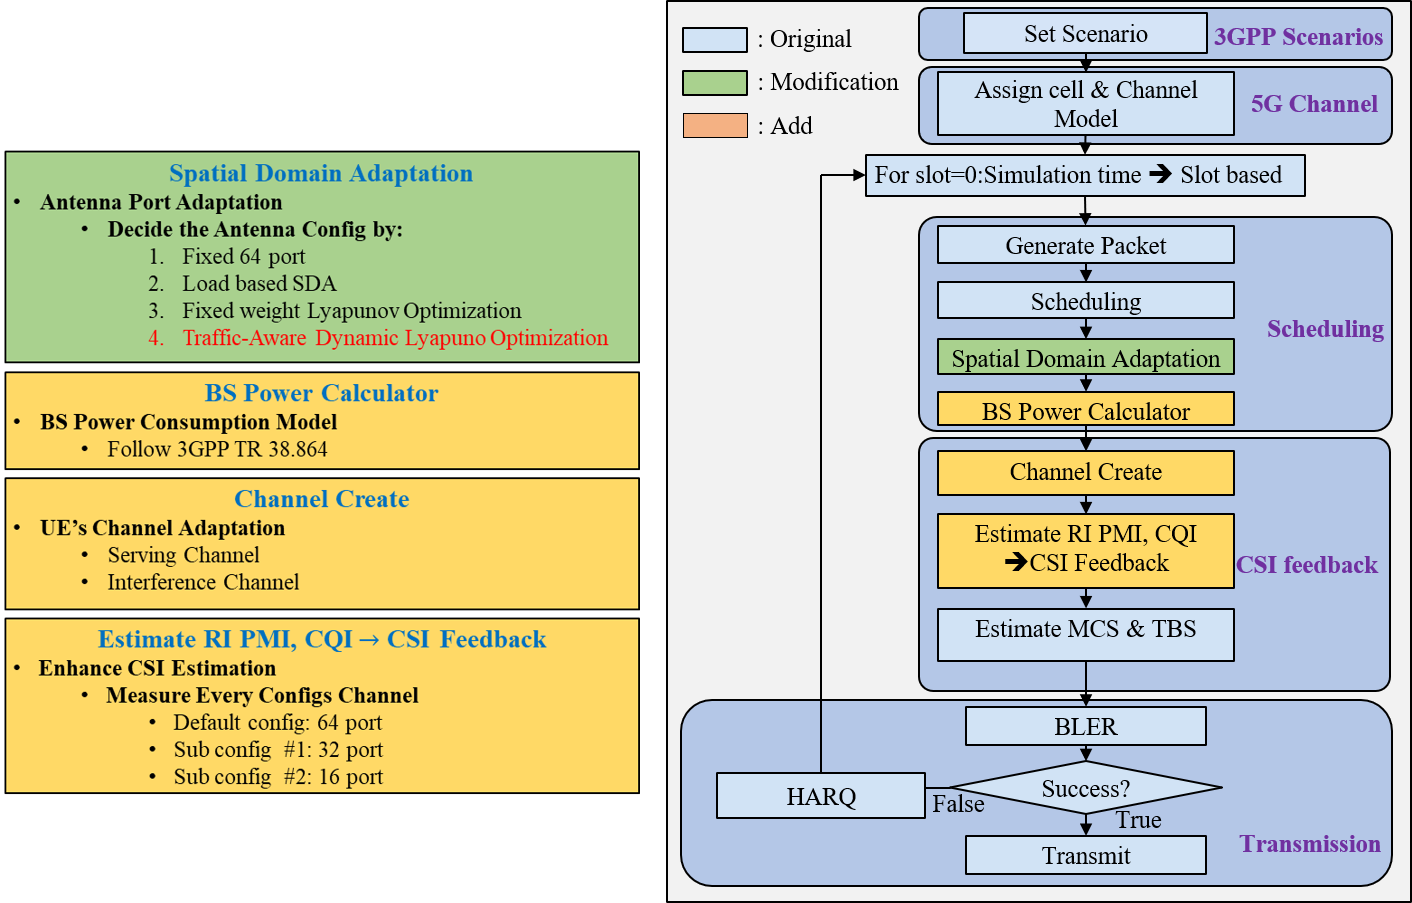
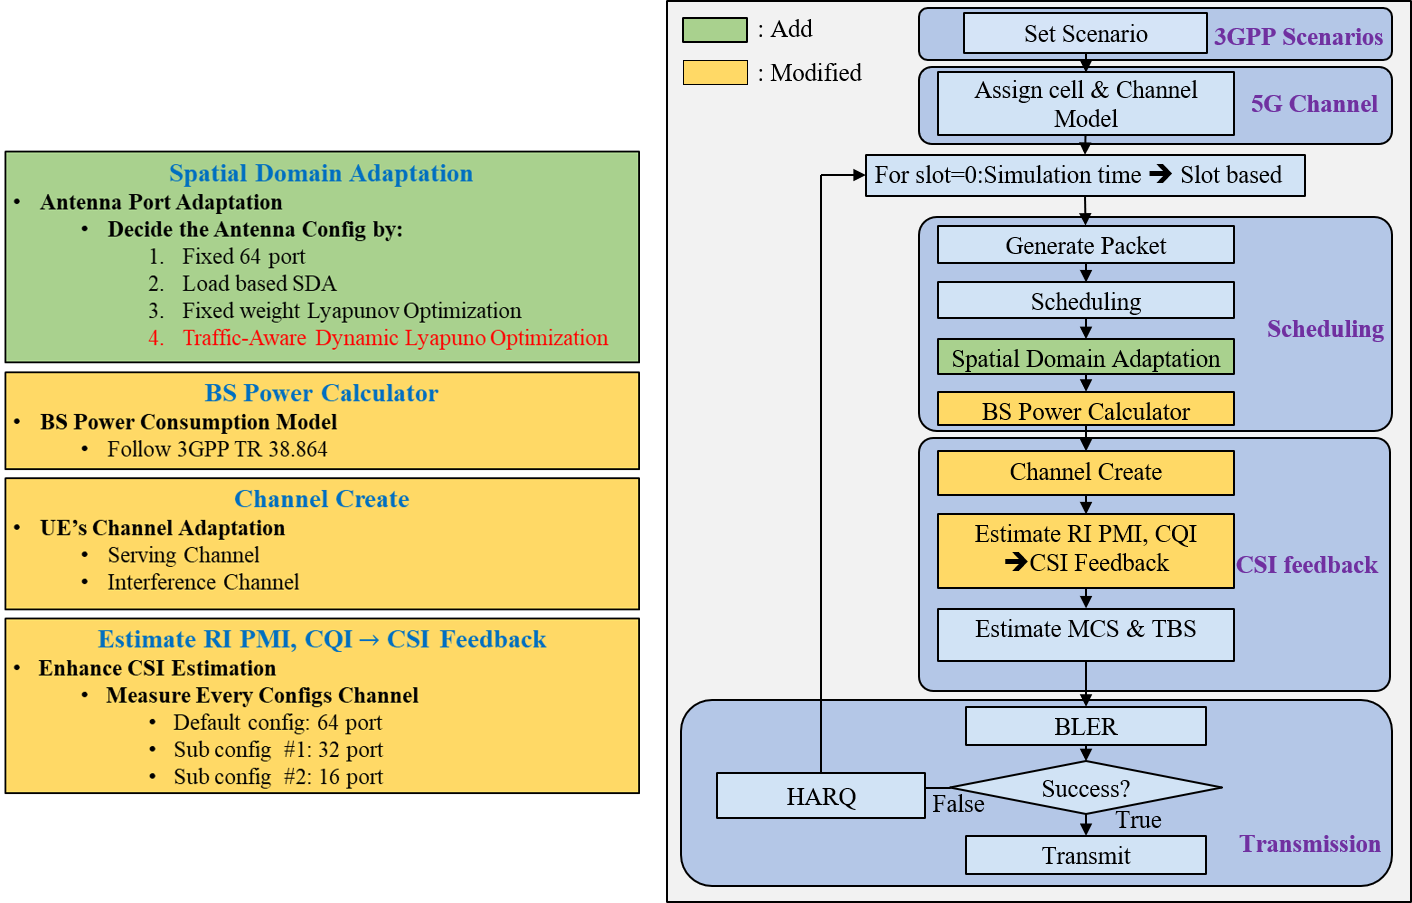
theisis1

Changed region(s): [[0.4674, 0.0, 0.6232, 0.155]]

diff --git a/sections/04experiments.tex b/sections/04experiments.tex
@@ -254,7 +254,7 @@ Light Load           & 6 UE                                      & 25.16\%      
 \begin{figure}[htbp]
     \centering
     \includegraphics[width=1\linewidth]{figures/perfomance.png}
-    \caption{沙盒環境下演算法之瞬時佇列長度、活躍天線數與系統功耗之微觀時間序列剖析。}
+    \caption{沙盒環境下演算法之瞬時佇列長度、活躍天線數與系統功耗之微觀時間序列剖析}
     \label{fig:timeseries_performance}
 \end{figure}
 
@@ -289,7 +289,7 @@ Light Load           & 6 UE                                      & 25.16\%      
 \begin{figure}[htbp]
     \centering
     \includegraphics[width=0.9\linewidth]{figures/SLS_BS_Power_Consumption.png}
-    \caption{SLS 系統級模擬結果：不同流量負載下各演算法之基地台長期平均功耗對比。}
+    \caption{SLS 系統級模擬結果：不同流量負載下各演算法之基地台長期平均功耗對比}
     \label{fig:sls_power_bar}
 \end{figure}
 

diff --git a/frontpages/acknowledgement.tex b/frontpages/acknowledgement.tex
@@ -1,7 +1,7 @@
 % !TeX root = ../main.tex
 
 \begin{acknowledgement}
-謝謝
+
 
 
 
